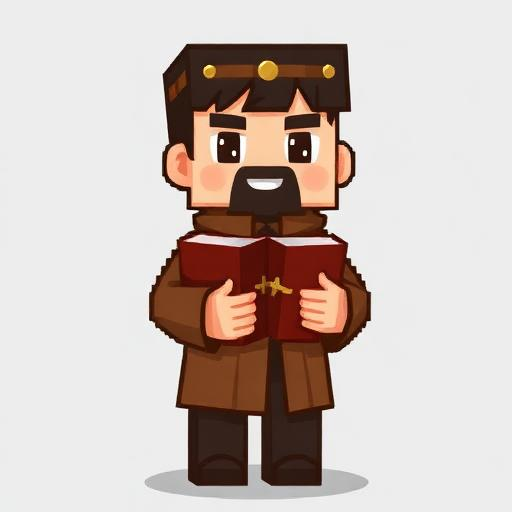
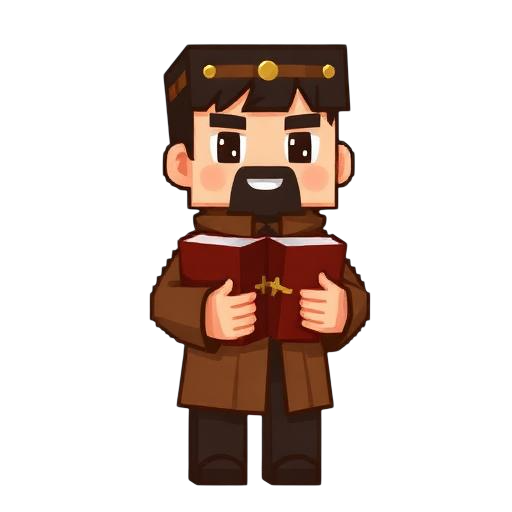
Removed emojis and villager background.

diff --git a/frontendTest/src/components/VillagerChat.tsx b/frontendTest/src/components/VillagerChat.tsx
@@ -114,12 +114,12 @@ const VillagerChat = () => {
         <DialogContent className="minecraft-border bg-card border-0 max-w-md">
           <DialogHeader>
             <DialogTitle className="font-pixel text-sm text-foreground text-center">
-              🏘 Language Villager
+              Language Villager
             </DialogTitle>
             <DialogDescription className="font-pixel-body text-lg text-muted-foreground text-center">
               {view === 'suggest' && submitted
                 ? ''
-                : 'Hrmmm... How can I help you, adventurer?'}
+                : 'Hmmm... How can I help you, adventurer?'}
             </DialogDescription>
           </DialogHeader>
 
@@ -129,19 +129,19 @@ const VillagerChat = () => {
                 onClick={() => { setView('suggest'); setSubmitted(false); setEmailError(''); setNameError(''); setInfoError(''); }}
                 className="minecraft-btn px-4 py-3 font-pixel text-[9px] text-foreground text-left leading-relaxed"
               >
-                📜 Suggest a missing language
+                Suggest a missing language
               </button>
               <button
                 onClick={handleRandom}
                 className="minecraft-btn px-4 py-3 font-pixel text-[9px] text-foreground text-left leading-relaxed"
               >
-                🎲 Take me on a language adventure!
+                Take me on a language adventure!
               </button>
               <button
                 onClick={handleHome}
                 className="minecraft-btn px-4 py-3 font-pixel text-[9px] text-foreground text-left leading-relaxed"
               >
-                🏠 Back to the main menu
+                Back to the main menu
               </button>
             </div>
           )}
